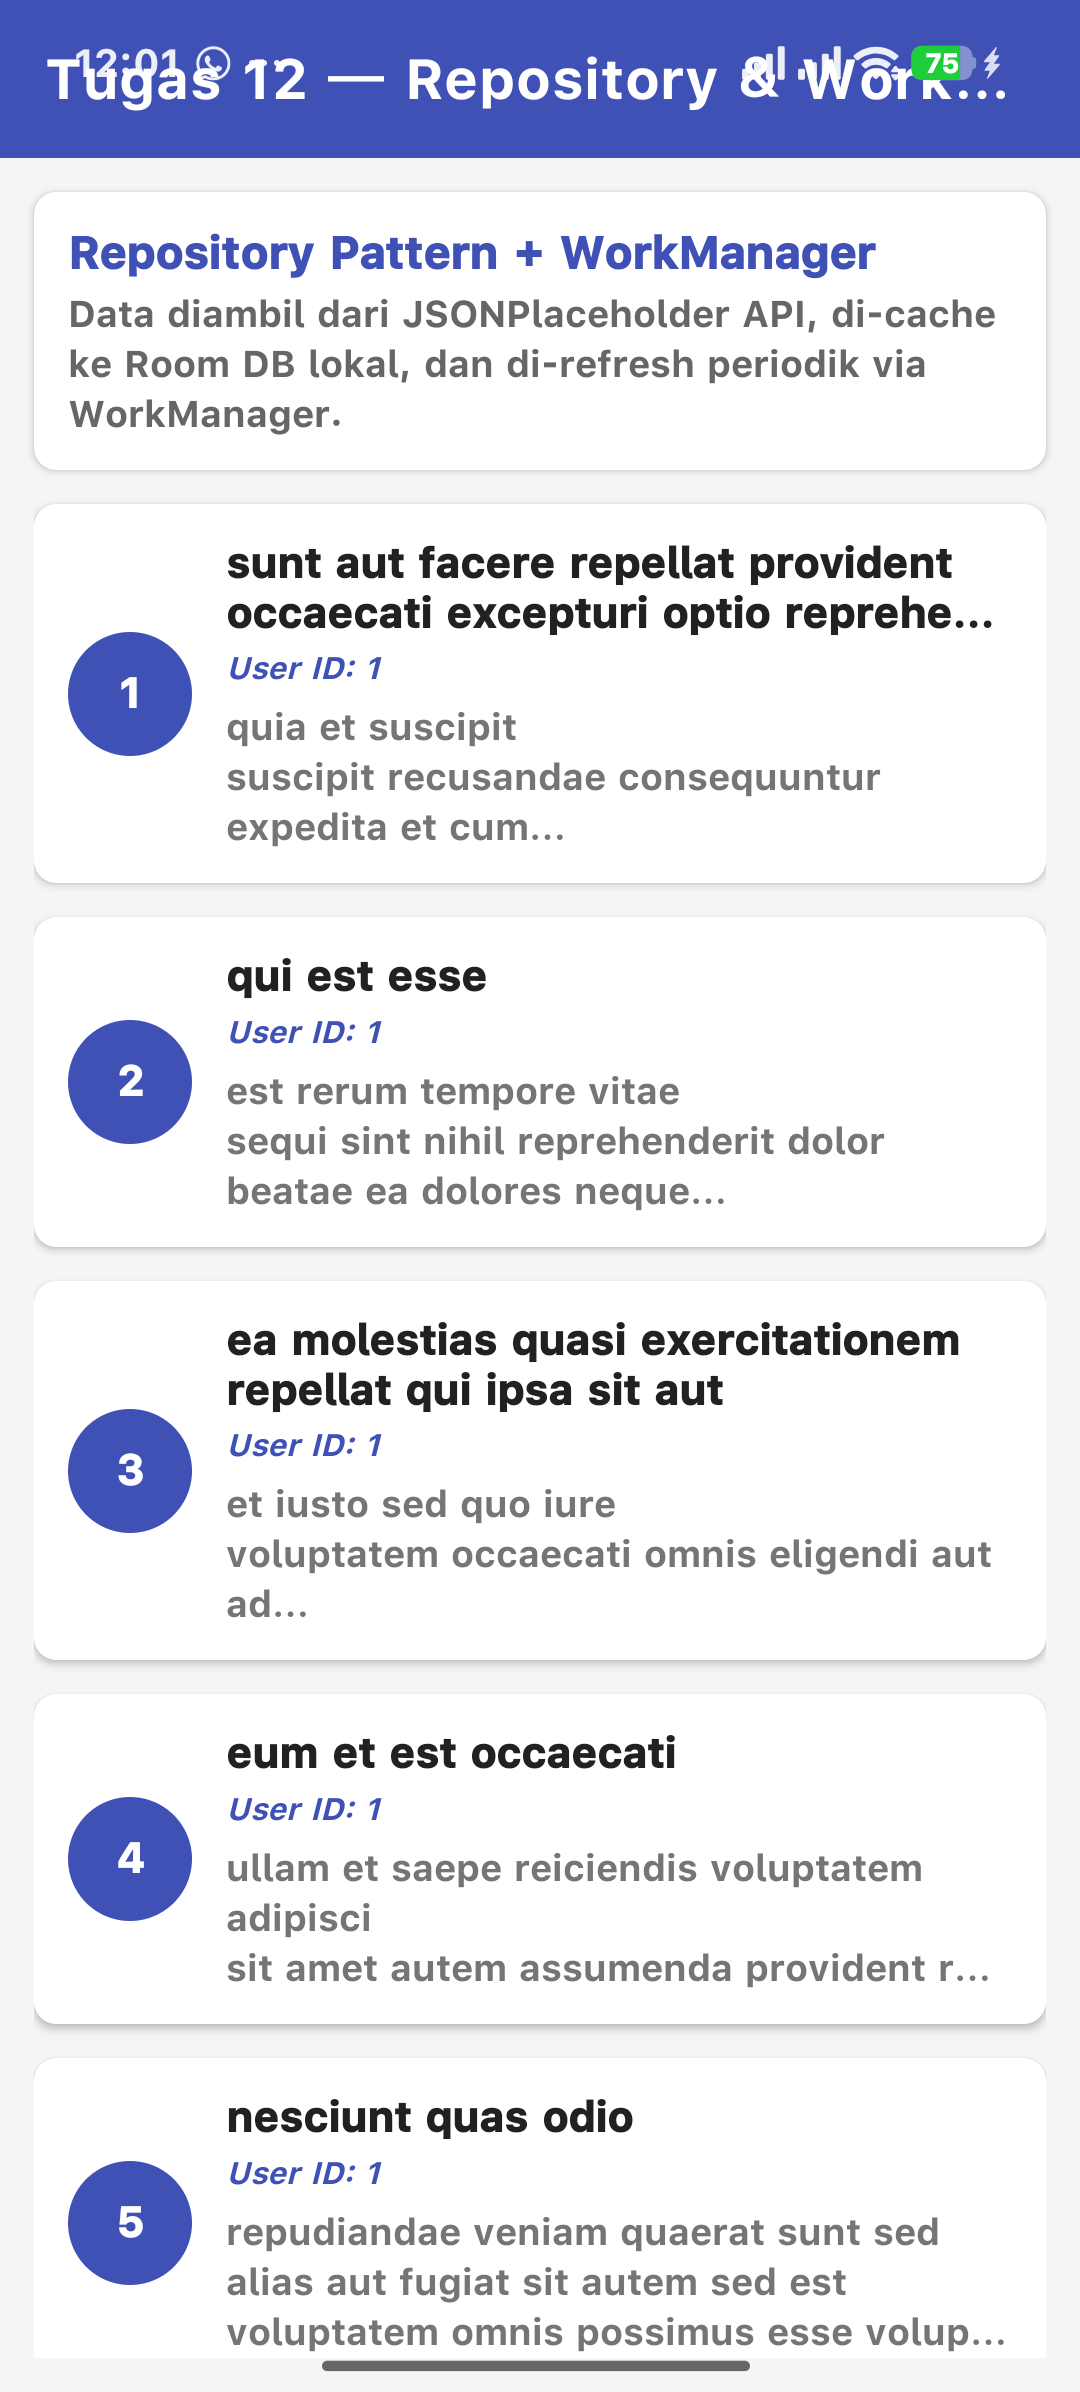
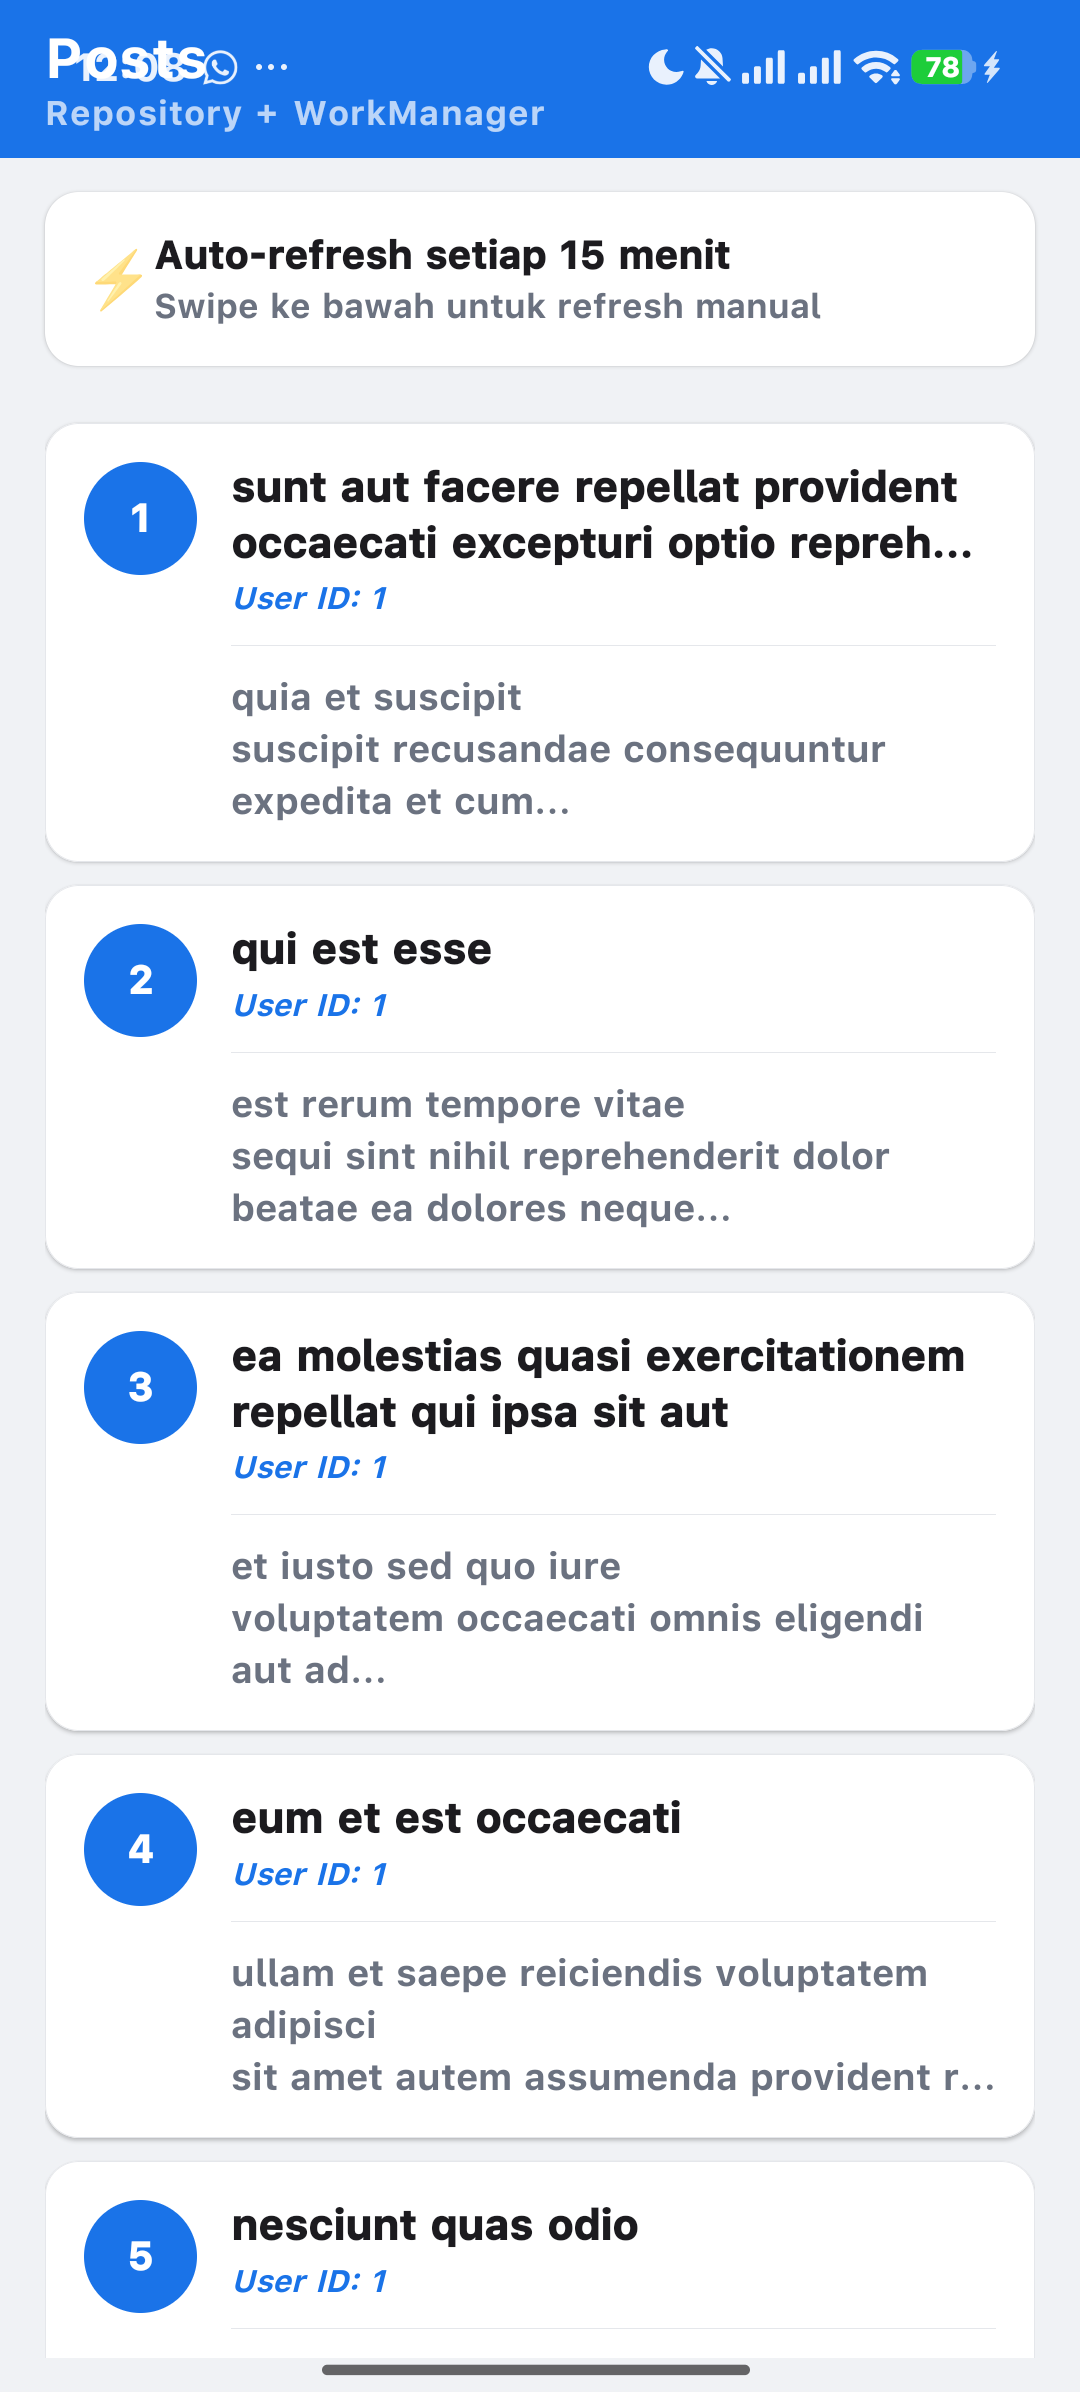
feat: perbaiki UI tampilan aplikasi lebih modern dan update screenshot
- Ubah skema warna ke Material Blue + Amber (lebih modern)
- Redesign layout activity_main: info card lebih minimal, empty state dengan ikon
- Redesign item_post: card dengan divider, spacing lebih rapi
- Tambah ic_empty_state vector drawable
- Ganti ProgressBar ke CircularProgressIndicator Material
- Update referensi layout di MainActivity (tvEmptyState -> layoutEmptyState)
- Tambah OneTimeWorkRequest trigger untuk demonstrasi logcat
- Update screenshot terbaru

diff --git a/app/src/main/java/com/tugas12/repository/ui/MainViewModel.kt b/app/src/main/java/com/tugas12/repository/ui/MainViewModel.kt
@@ -58,6 +58,21 @@ class MainViewModel(application: Application) : AndroidViewModel(application) {
 
         // Jadwalkan WorkManager untuk periodic refresh
         schedulePeriodicRefresh()
+
+        // Trigger immediate one-time worker untuk bukti logcat
+        triggerImmediateWorker()
+    }
+
+    /**
+     * One-time worker tanpa constraints untuk keperluan demonstrasi logcat.
+     */
+    private fun triggerImmediateWorker() {
+        val immediateRequest = androidx.work.OneTimeWorkRequestBuilder<com.tugas12.repository.worker.RefreshDataWorker>()
+            .addTag("immediate_refresh")
+            .build()
+
+        androidx.work.WorkManager.getInstance(getApplication())
+            .enqueue(immediateRequest)
     }
 
     /**

diff --git a/app/src/main/java/com/tugas12/repository/MainActivity.kt b/app/src/main/java/com/tugas12/repository/MainActivity.kt
@@ -57,7 +57,7 @@ class MainActivity : AppCompatActivity() {
         lifecycleScope.launch {
             viewModel.posts.collectLatest { posts ->
                 adapter.submitList(posts)
-                binding.tvEmptyState.visibility =
+                binding.layoutEmptyState.visibility =
                     if (posts.isEmpty()) android.view.View.VISIBLE else android.view.View.GONE
             }
         }

diff --git a/README.md b/README.md
@@ -24,8 +24,10 @@ Aplikasi ini adalah implementasi **Repository Pattern** dan **WorkManager** pada
 | **Retrofit + Gson** | HTTP client untuk komunikasi dengan REST API JSONPlaceholder |
 | **CoroutineWorker** | Background task menggunakan CoroutineWorker (asinkron, aman untuk suspend functions) |
 | **PeriodicWorkRequest** | Refresh data otomatis setiap 15 menit dengan constraints UNMETERED + Charging |
+| **OneTimeWorkRequest** | Trigger langsung saat aplikasi dibuka untuk demonstrasi logcat |
 | **SwipeRefreshLayout** | Pull-to-refresh manual untuk trigger sinkronisasi data |
 | **Reactive UI** | Data dari Room menggunakan Flow — UI otomatis update saat data berubah |
+| **Material Design UI** | Tampilan modern dengan MaterialCardView, gradient avatar, dan CircularProgressIndicator |
 
 ### Arsitektur
 